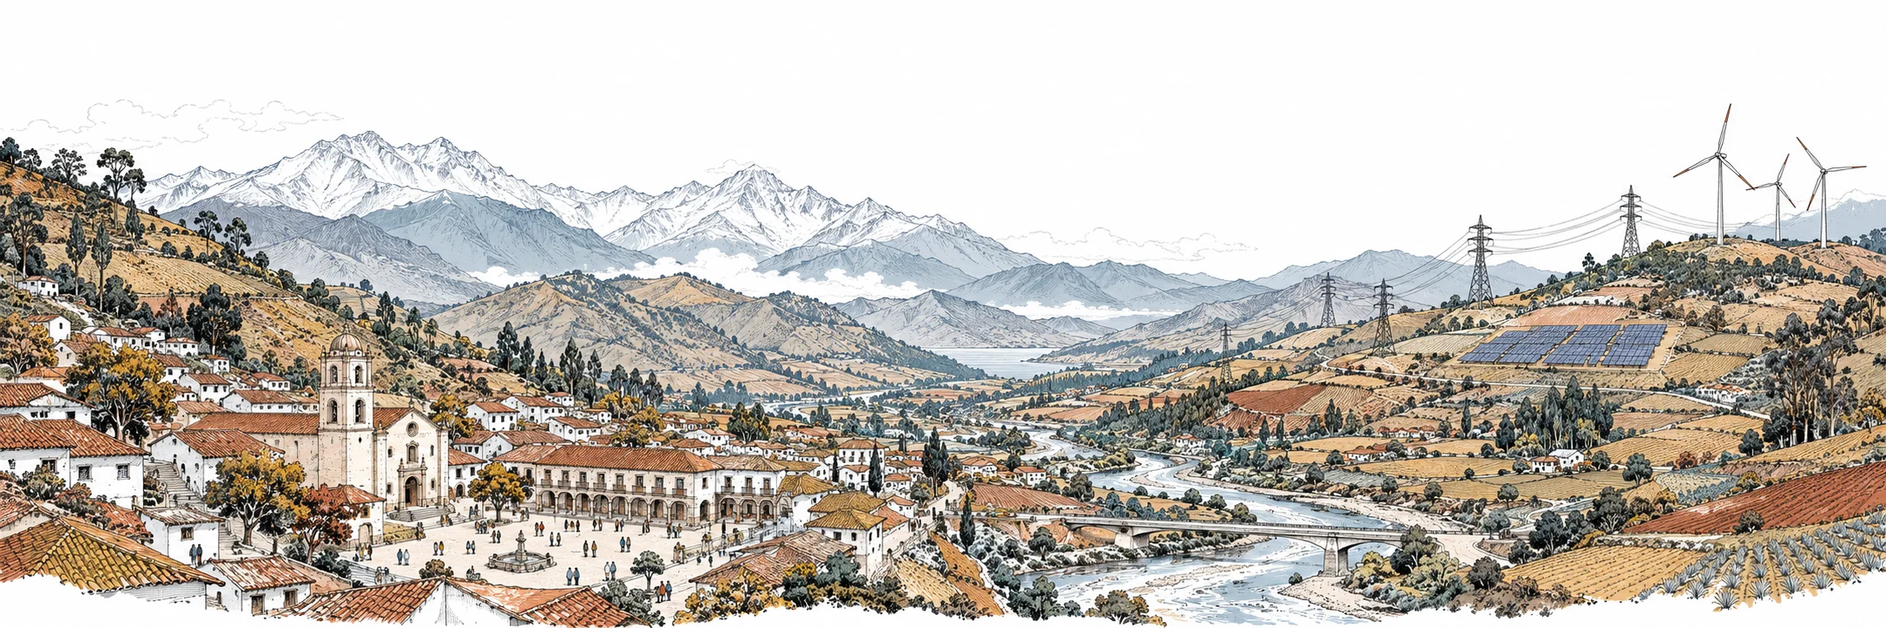
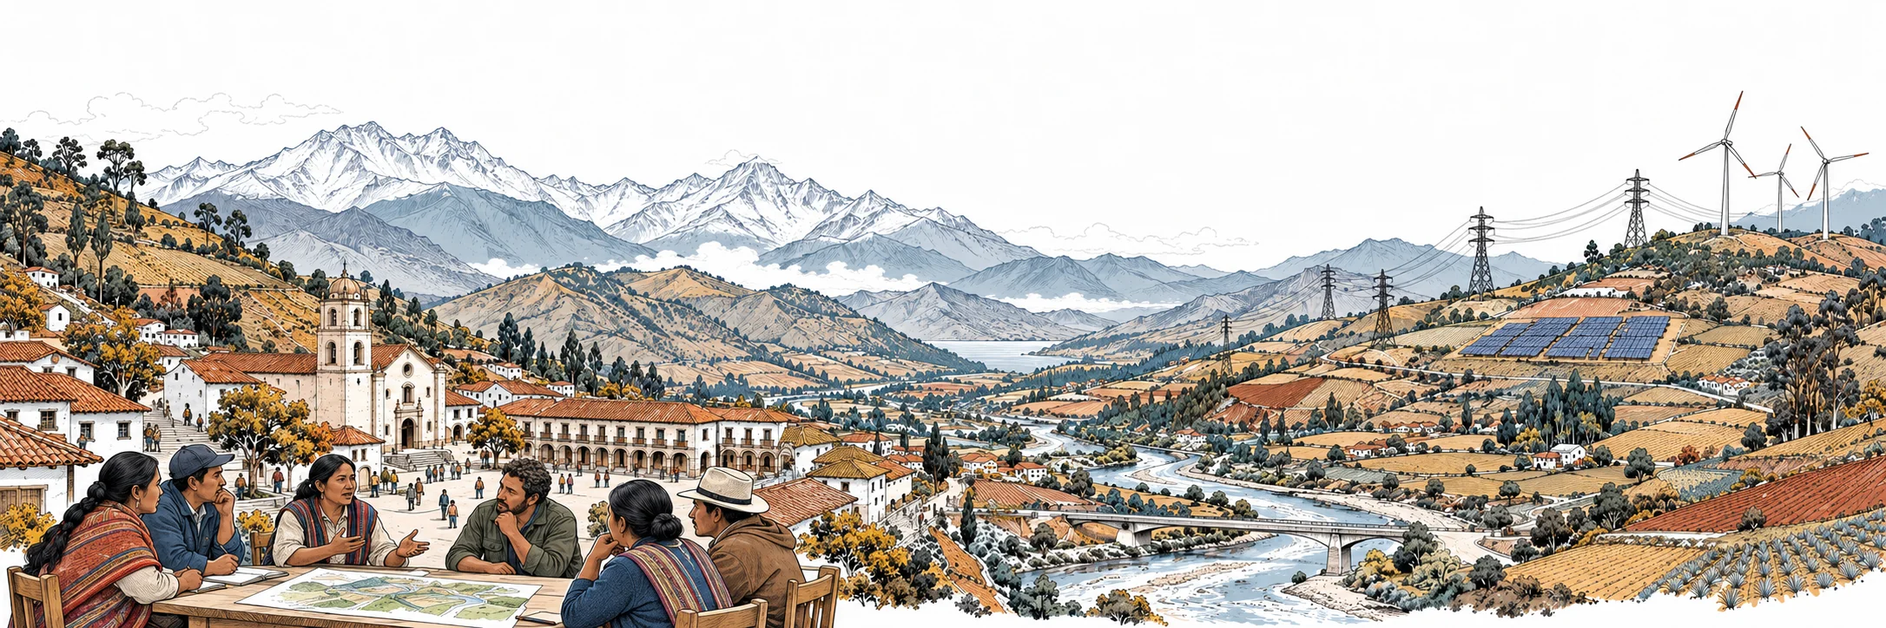
Merge biography into Home and add life and fieldwork pages

diff --git a/index.html b/index.html
@@ -11,9 +11,9 @@
 <body>
   <a class="skip" href="#main">Skip to content</a>
   <header class="header">
-    <figure class="research-banner"><img src="assets/community-energy-banner.webp" width="2048" height="683" alt="Illustrated Andean landscape connecting a town and community square with a river, farmland, solar panels, and wind turbines." fetchpriority="high"><figcaption>Communities, political economy &amp; environmental change <span>· Conceptual illustration</span></figcaption></figure>
+    <figure class="research-banner"><img src="assets/community-energy-banner.webp" width="2048" height="683" alt="Illustrated Andean landscape with Indigenous community leaders discussing a land plan, a town, river, farmland, solar panels, and wind turbines." fetchpriority="high"></figure>
     <a class="wordmark" href="index.html" aria-label="Laura Elizabeth Moreno-Gama, home">Laura Elizabeth Moreno-Gama<span>PhD Candidate in Political Science · University of California, Santa Barbara</span></a>
-    <nav aria-label="Main navigation"><a href="index.html" aria-current="page">Home</a><a href="about.html">About</a><a href="research.html">Research</a><a href="cv.html">CV</a><a href="contact.html">Contact <span aria-hidden="true"><svg class="arrow" viewBox="0 0 16 16" fill="none" stroke="currentColor" stroke-width="1.3" aria-hidden="true"><path d="M3 13 13 3M3 3h10v10"/></svg></span></a></nav>
+    <nav aria-label="Main navigation"><a href="index.html" aria-current="page">Home</a><a href="research.html">Research</a><a href="cv.html">CV</a><a href="fieldwork.html">Fieldwork</a><a href="life.html">Life outside academia</a><a href="contact.html">Contact</a></nav>
   </header>
   <main id="main" class="home-layout">
     <aside class="profile-sidebar" aria-label="Profile and contact information">
@@ -21,17 +21,18 @@
       <p class="sidebar-name">Laura Elizabeth<br>Moreno-Gama</p>
       <p class="sidebar-affiliation">Political Science<br>UC Santa Barbara</p>
       <a class="sidebar-email" href="mailto:lmorenogama@ucsb.edu">lmorenogama@ucsb.edu</a>
-      <p class="home-roots"><span class="colombia-mark" aria-hidden="true"></span><span lang="es">Orgullosamente colombiana.</span></p>
     </aside>
     <section class="welcome" aria-labelledby="welcome-title">
       <p class="eyebrow">Politics · Community · Environment</p>
-      <h1 id="welcome-title">Welcome. <span lang="es">Bienvenidos.</span></h1>
+      <h1 id="welcome-title">Welcome/<span lang="es">Bienvenidxs</span></h1>
       <p class="welcome-lead">I am Laura Elizabeth Moreno-Gama, a PhD Candidate in Political Science at the University of California, Santa Barbara.</p>
-      <p>I study the political economy of conflict, development, and environmental politics, with a focus on Latin America. My research examines energy transitions, environmental governance, and the communities at the heart of these changes.</p>
-      <p>Originally from Bogotá, Colombia, I bring a deep connection to the region to my work. I draw on experimental and quasi-experimental methods to explore these questions.</p>
-      <div class="home-links" aria-label="Explore the website"><a href="about.html">More about me <span aria-hidden="true">/</span></a><a href="research.html">Research <span aria-hidden="true">/</span></a><a href="cv.html">CV <span aria-hidden="true">/</span></a><a href="contact.html">Contact</a></div>
+      <p>I study the political economy of conflict, development, and environmental politics, with a focus on Latin America. My research examines energy transitions, environmental governance, and communities.</p>
+      <p>My work draws on experimental and quasi-experimental methods. My fields are comparative politics, environmental politics, and quantitative methods.</p>
+      <p>I hold an MSc in Economics (2017–2019) and a BSc in Economics (2013–2017) from Universidad del Rosario in Bogotá, Colombia. I also spent an exchange semester at Universidad Complutense de Madrid in 2016–2017.</p>
+      <p>Before UCSB, I worked in research at Universidad del Rosario, New York University Abu Dhabi, and United Arab Emirates University, and as a Nuclear R&amp;D Specialist at Nawah Energy Company.</p>
+      <div class="tags" aria-label="Research interests"><span>Comparative politics</span><span>Environmental politics</span><span>Quantitative methods</span></div>
     </section>
   </main>
-  <footer><span>Laura Elizabeth Moreno-Gama</span><span class="roots-footer"><span class="colombia-mark" aria-hidden="true"></span> Orgullosamente colombiana</span><span>Political Science · UC Santa Barbara</span></footer>
+  <footer><span>Laura Elizabeth Moreno-Gama</span><span>Political Science · UC Santa Barbara</span></footer>
 </body>
 </html>

diff --git a/about.html b/about.html
@@ -1,28 +1,2 @@
 <!DOCTYPE html>
-<html lang="en">
-<head>
-  <meta charset="utf-8">
-  <meta name="viewport" content="width=device-width, initial-scale=1">
-  <meta name="description" content="Laura Elizabeth Moreno-Gama, PhD Candidate in Political Science at the University of California, Santa Barbara. Comparative politics, political economy, and environmental politics.">
-  <meta name="theme-color" content="#ffffff">
-  <title>About · Laura Elizabeth Moreno-Gama · Political Science</title>
-  <link rel="stylesheet" href="assets/style.css">
-</head>
-<body>
-  <a class="skip" href="#main">Skip to content</a>
-  <header class="header">
-    <figure class="research-banner"><img src="assets/community-energy-banner.webp" width="2048" height="683" alt="Illustrated Andean landscape connecting a town and community square with a river, farmland, solar panels, and wind turbines." fetchpriority="high"><figcaption>Communities, political economy &amp; environmental change <span>· Conceptual illustration</span></figcaption></figure>
-    <a class="wordmark" href="index.html" aria-label="Laura Elizabeth Moreno-Gama, home">Laura Elizabeth Moreno-Gama<span>PhD Candidate in Political Science · University of California, Santa Barbara</span></a>
-    <nav aria-label="Main navigation"><a href="index.html">Home</a><a href="about.html" aria-current="page">About</a><a href="research.html">Research</a><a href="cv.html">CV</a><a href="contact.html">Contact <span aria-hidden="true"><svg class="arrow" viewBox="0 0 16 16" fill="none" stroke="currentColor" stroke-width="1.3" aria-hidden="true"><path d="M3 13 13 3M3 3h10v10"/></svg></span></a></nav>
-  </header>
-  <main id="main">
-    <section class="section about" aria-labelledby="about-title">
-      <div class="section-label"><span>01 / About</span><h1 id="about-title">Politics, environment,<br>and community.</h1></div>
-      <div class="section-body"><p class="lead">I am Laura Elizabeth Moreno-Gama, a PhD Candidate in Political Science at the University of California, Santa Barbara. I study the political economy of conflict, development, and environmental politics, with a focus on Latin America.</p><p>My work draws on experimental and quasi-experimental methods to examine questions about energy transitions, environmental governance, and communities. My fields are comparative politics, environmental politics, and quantitative methods.</p><p>I hold an MSc in Economics (2017–2019) and a BSc in Economics (2013–2017) from Universidad del Rosario in Bogotá, Colombia. I also spent an exchange semester at Universidad Complutense de Madrid in 2016–2017.</p><p>Before UCSB, I worked in research at Universidad del Rosario, New York University Abu Dhabi, and United Arab Emirates University, and as a Nuclear R&amp;D Specialist at Nawah Energy Company.</p><div class="tags" aria-label="Research interests"><span>Comparative politics</span><span>Environmental politics</span><span>Quantitative methods</span></div></div>
-    </section>
-    <section class="profile-details" aria-labelledby="affiliations-title"><h2 id="affiliations-title">Research &amp; academic community</h2><ul><li>PhD Fellow, The 2035 Initiative</li><li>Graduate Student Associate, Broom Center for Demography</li><li>Graduate Research Assistant working with William Nomikos and Matto Mildenberger</li><li>Catalyst Fellow, Berkeley Initiative for Transparency in the Social Sciences (BITSS)</li><li>Organizer of the ReproducibiliTea Workshop Series at UCSB</li></ul><h2>Teaching</h2><p>At Universidad del Rosario, I served as a teaching assistant in Economic Measurement (2019), Econometrics I (2018), and Probability and Statistics (2016–2018).</p></section>
-    <aside class="roots-note"><span class="colombia-mark" aria-hidden="true"></span><div><p class="eyebrow" lang="es">Orgullosamente colombiana</p><h2>From Bogotá, with pride.</h2><p>I am proudly Colombian, with roots in Bogotá and an academic foundation at Universidad del Rosario. Colombia remains central to many of the questions that guide my research.</p></div></aside>
-  </main>
-  <footer><span>Laura Elizabeth Moreno-Gama</span><span class="roots-footer"><span class="colombia-mark" aria-hidden="true"></span> Orgullosamente colombiana</span><span>Political Science · UC Santa Barbara</span></footer>
-</body>
-</html>
+<html lang="en"><head><meta charset="utf-8"><meta name="viewport" content="width=device-width, initial-scale=1"><meta http-equiv="refresh" content="0; url=index.html"><link rel="canonical" href="index.html"><title>About · Laura Elizabeth Moreno-Gama</title></head><body><p>The About page is now part of <a href="index.html">Laura Elizabeth Moreno-Gama’s home page</a>.</p></body></html>

diff --git a/research.html b/research.html
@@ -11,9 +11,9 @@
 <body>
   <a class="skip" href="#main">Skip to content</a>
   <header class="header">
-    <figure class="research-banner"><img src="assets/community-energy-banner.webp" width="2048" height="683" alt="Illustrated Andean landscape connecting a town and community square with a river, farmland, solar panels, and wind turbines." fetchpriority="high"><figcaption>Communities, political economy &amp; environmental change <span>· Conceptual illustration</span></figcaption></figure>
+    <figure class="research-banner"><img src="assets/community-energy-banner.webp" width="2048" height="683" alt="Illustrated Andean landscape with Indigenous community leaders discussing a land plan, a town, river, farmland, solar panels, and wind turbines." fetchpriority="high"></figure>
     <a class="wordmark" href="index.html" aria-label="Laura Elizabeth Moreno-Gama, home">Laura Elizabeth Moreno-Gama<span>PhD Candidate in Political Science · University of California, Santa Barbara</span></a>
-    <nav aria-label="Main navigation"><a href="index.html">Home</a><a href="about.html">About</a><a href="research.html" aria-current="page">Research</a><a href="cv.html">CV</a><a href="contact.html">Contact <span aria-hidden="true"><svg class="arrow" viewBox="0 0 16 16" fill="none" stroke="currentColor" stroke-width="1.3" aria-hidden="true"><path d="M3 13 13 3M3 3h10v10"/></svg></span></a></nav>
+    <nav aria-label="Main navigation"><a href="index.html">Home</a><a href="research.html" aria-current="page">Research</a><a href="cv.html">CV</a><a href="fieldwork.html">Fieldwork</a><a href="life.html">Life outside academia</a><a href="contact.html">Contact</a></nav>
   </header>
   <main id="main">
     <section class="section research" aria-labelledby="research-title"><p class="eyebrow">02 / Research</p><h1 id="research-title">Conflict, development,<br>and environmental politics.</h1><p class="research-intro">My research focuses on the political economy of environmental change in Latin America, using experimental and quasi-experimental methods.</p><h2>Research in progress</h2><div class="project-list"><article class="project"><p class="eyebrow">Research in progress</p><h3>Green Taxes for Trust: The Limits of Earmarking in Post-Conflict Colombia.</h3></article>
@@ -22,6 +22,6 @@
 <article class="project"><p class="eyebrow">Research in progress</p><h3>Political Support for Fossil Fuel Phaseout Policies in Oil-Producing Communities: Evidence from Colombia</h3><p>With Cesar Martinez (UCSB).</p></article>
 <article class="project"><p class="eyebrow">Research in progress</p><h3>Rebels and the Commons: Armed Group Governance and Common-Pool Resource Management in Colombia</h3><p>With Zachariah Parcels (Purdue University).</p></article></div><h2>Peer-reviewed publication</h2><article class="project"><h3>Do the size of the tourism sector and level of digitalization affect COVID-19 economic policy response? Evidence from developed and developing countries</h3><p>With Usman Khalid (United Arab Emirates University) and Luke Okafor (University of Nottingham).</p></article></section>
   </main>
-  <footer><span>Laura Elizabeth Moreno-Gama</span><span class="roots-footer"><span class="colombia-mark" aria-hidden="true"></span> Orgullosamente colombiana</span><span>Political Science · UC Santa Barbara</span></footer>
+  <footer><span>Laura Elizabeth Moreno-Gama</span><span>Political Science · UC Santa Barbara</span></footer>
 </body>
 </html>

diff --git a/cv.html b/cv.html
@@ -11,13 +11,13 @@
 <body>
   <a class="skip" href="#main">Skip to content</a>
   <header class="header">
-    <figure class="research-banner"><img src="assets/community-energy-banner.webp" width="2048" height="683" alt="Illustrated Andean landscape connecting a town and community square with a river, farmland, solar panels, and wind turbines." fetchpriority="high"><figcaption>Communities, political economy &amp; environmental change <span>· Conceptual illustration</span></figcaption></figure>
+    <figure class="research-banner"><img src="assets/community-energy-banner.webp" width="2048" height="683" alt="Illustrated Andean landscape with Indigenous community leaders discussing a land plan, a town, river, farmland, solar panels, and wind turbines." fetchpriority="high"></figure>
     <a class="wordmark" href="index.html" aria-label="Laura Elizabeth Moreno-Gama, home">Laura Elizabeth Moreno-Gama<span>PhD Candidate in Political Science · University of California, Santa Barbara</span></a>
-    <nav aria-label="Main navigation"><a href="index.html">Home</a><a href="about.html">About</a><a href="research.html">Research</a><a href="cv.html" aria-current="page">CV</a><a href="contact.html">Contact <span aria-hidden="true"><svg class="arrow" viewBox="0 0 16 16" fill="none" stroke="currentColor" stroke-width="1.3" aria-hidden="true"><path d="M3 13 13 3M3 3h10v10"/></svg></span></a></nav>
+    <nav aria-label="Main navigation"><a href="index.html">Home</a><a href="research.html">Research</a><a href="cv.html" aria-current="page">CV</a><a href="fieldwork.html">Fieldwork</a><a href="life.html">Life outside academia</a><a href="contact.html">Contact</a></nav>
   </header>
   <main id="main">
     <section class="section cv" aria-labelledby="cv-title"><div><p class="eyebrow">03 / Curriculum vitae</p><h1 id="cv-title">The academic path.</h1><p>Education, research, teaching, and academic experience.</p></div><a class="cv-placeholder" href="assets/cv.pdf" download="Laura_Elizabeth_Moreno_Gama_CV.pdf"><span aria-hidden="true">↓</span><span>Download my CV<small>PDF · Full curriculum vitae</small></span></a></section><section class="profile-details" aria-labelledby="education-title"><h2 id="education-title">Education</h2><dl class="education-list"><div><dt>2024–present</dt><dd>PhD program in Political Science<br>University of California, Santa Barbara</dd></div><div><dt>2017–2019</dt><dd>MSc in Economics · Graduated with honors<br>Universidad del Rosario, Bogotá</dd></div><div><dt>2013–2017</dt><dd>BSc in Economics · Top 5%<br>Universidad del Rosario, Bogotá</dd></div></dl></section>
   </main>
-  <footer><span>Laura Elizabeth Moreno-Gama</span><span class="roots-footer"><span class="colombia-mark" aria-hidden="true"></span> Orgullosamente colombiana</span><span>Political Science · UC Santa Barbara</span></footer>
+  <footer><span>Laura Elizabeth Moreno-Gama</span><span>Political Science · UC Santa Barbara</span></footer>
 </body>
 </html>

diff --git a/contact.html b/contact.html
@@ -11,13 +11,13 @@
 <body>
   <a class="skip" href="#main">Skip to content</a>
   <header class="header">
-    <figure class="research-banner"><img src="assets/community-energy-banner.webp" width="2048" height="683" alt="Illustrated Andean landscape connecting a town and community square with a river, farmland, solar panels, and wind turbines." fetchpriority="high"><figcaption>Communities, political economy &amp; environmental change <span>· Conceptual illustration</span></figcaption></figure>
+    <figure class="research-banner"><img src="assets/community-energy-banner.webp" width="2048" height="683" alt="Illustrated Andean landscape with Indigenous community leaders discussing a land plan, a town, river, farmland, solar panels, and wind turbines." fetchpriority="high"></figure>
     <a class="wordmark" href="index.html" aria-label="Laura Elizabeth Moreno-Gama, home">Laura Elizabeth Moreno-Gama<span>PhD Candidate in Political Science · University of California, Santa Barbara</span></a>
-    <nav aria-label="Main navigation"><a href="index.html">Home</a><a href="about.html">About</a><a href="research.html">Research</a><a href="cv.html">CV</a><a href="contact.html" aria-current="page">Contact <span aria-hidden="true"><svg class="arrow" viewBox="0 0 16 16" fill="none" stroke="currentColor" stroke-width="1.3" aria-hidden="true"><path d="M3 13 13 3M3 3h10v10"/></svg></span></a></nav>
+    <nav aria-label="Main navigation"><a href="index.html">Home</a><a href="research.html">Research</a><a href="cv.html">CV</a><a href="fieldwork.html">Fieldwork</a><a href="life.html">Life outside academia</a><a href="contact.html" aria-current="page">Contact</a></nav>
   </header>
   <main id="main">
     <section class="section contact" id="contact" aria-labelledby="contact-title"><div><p class="eyebrow">04 / Contact</p><h1 id="contact-title">Let’s be in conversation.</h1><p>For research conversations and academic connections.</p></div><dl class="contact-list"><div><dt>Email</dt><dd><a href="mailto:lmorenogama@ucsb.edu">lmorenogama@ucsb.edu</a></dd></div><div><dt>Academic profiles</dt><dd>Links forthcoming</dd></div></dl></section>
   </main>
-  <footer><span>Laura Elizabeth Moreno-Gama</span><span class="roots-footer"><span class="colombia-mark" aria-hidden="true"></span> Orgullosamente colombiana</span><span>Political Science · UC Santa Barbara</span></footer>
+  <footer><span>Laura Elizabeth Moreno-Gama</span><span>Political Science · UC Santa Barbara</span></footer>
 </body>
 </html>

diff --git a/life.html b/life.html
@@ -1,0 +1,28 @@
+<!DOCTYPE html>
+<html lang="en">
+<head>
+  <meta charset="utf-8">
+  <meta name="viewport" content="width=device-width, initial-scale=1">
+  <meta name="description" content="Laura Elizabeth Moreno-Gama, PhD Candidate in Political Science at the University of California, Santa Barbara. Comparative politics, political economy, and environmental politics.">
+  <meta name="theme-color" content="#ffffff">
+  <title>Life outside academia · Laura Elizabeth Moreno-Gama · Political Science</title>
+  <link rel="stylesheet" href="assets/style.css">
+</head>
+<body>
+  <a class="skip" href="#main">Skip to content</a>
+  <header class="header">
+    <figure class="research-banner"><img src="assets/community-energy-banner.webp" width="2048" height="683" alt="Illustrated Andean landscape with Indigenous community leaders discussing a land plan, a town, river, farmland, solar panels, and wind turbines." fetchpriority="high"></figure>
+    <a class="wordmark" href="index.html" aria-label="Laura Elizabeth Moreno-Gama, home">Laura Elizabeth Moreno-Gama<span>PhD Candidate in Political Science · University of California, Santa Barbara</span></a>
+    <nav aria-label="Main navigation"><a href="index.html">Home</a><a href="research.html">Research</a><a href="cv.html">CV</a><a href="fieldwork.html">Fieldwork</a><a href="life.html" aria-current="page">Life outside academia</a><a href="contact.html">Contact</a></nav>
+  </header>
+  <main id="main">
+    <section class="section personal-page" aria-labelledby="life-title">
+      <p class="eyebrow">A little more about me</p><h1 id="life-title">My life outside academia</h1>
+      <div class="personal-intro"><h2>From Bogotá, with pride.</h2><p>I am proudly Colombian, with roots in Bogotá. Colombia is part of who I am—a connection I carry with me wherever I go.</p></div>
+      <div class="personal-detail"><h2>Across places and languages</h2><p>My path has taken me from Colombia to Spain, the United Arab Emirates, and now Santa Barbara. Spanish is my native language; I also speak English, have working proficiency in French, and basic conversational Arabic.</p></div>
+      <div class="content-placeholder"><h2>The things I enjoy</h2><p>Personal favorites, hobbies, and everyday joys coming soon.</p></div>
+    </section>
+  </main>
+  <footer><span>Laura Elizabeth Moreno-Gama</span><span>Political Science · UC Santa Barbara</span></footer>
+</body>
+</html>

diff --git a/assets/style.css b/assets/style.css
@@ -58,3 +58,12 @@ a.cv-placeholder:hover{border-color:var(--sage)}
 .welcome .home-links{margin-top:27px;gap:14px;font-size:12px}
 @media(max-width:900px){.home-layout{grid-template-columns:200px minmax(0,1fr);gap:27px}.profile-sidebar{padding-right:24px}.welcome h1{font-size:32px}.wordmark{font-size:28px}}
 @media(max-width:650px){.header{padding-top:18px;padding-bottom:18px}.research-banner{margin-bottom:15px}.research-banner figcaption{display:block;font-size:9px}.research-banner figcaption span{display:block;margin-top:3px}.wordmark{font-size:25px}.wordmark span{font-size:11px;max-width:290px}.header nav{gap:20px;margin-top:17px;font-size:12px}.home-layout{grid-template-columns:1fr;gap:26px;padding-top:25px;padding-bottom:35px}.profile-sidebar{border-right:0;border-bottom:1px solid var(--line);padding:0 0 22px;display:grid;grid-template-columns:108px minmax(0,1fr);column-gap:20px;align-content:start}.profile-sidebar .portrait-photo{grid-column:1;grid-row:1/5;width:108px;margin:0}.sidebar-name{grid-column:2;font-size:19px;margin:0 0 8px}.sidebar-affiliation{grid-column:2;margin:0 0 8px;font-size:11px}.sidebar-email{grid-column:2;font-size:10px}.profile-sidebar .home-roots{grid-column:2;margin:12px 0 0;font-size:9px;flex-wrap:wrap;gap:6px}.welcome h1{font-size:31px}.welcome p.welcome-lead{font-size:21px}.welcome p:not(.eyebrow){font-size:14px}.welcome .home-links{gap:10px}.welcome .home-links span{margin-left:10px}}
+
+/* A single biography, with personal stories and fieldwork on their own pages. */
+.personal-page,.fieldwork-page{max-width:780px;min-height:0}
+.personal-page h2,.fieldwork-page h2{font-size:27px;line-height:1.3}
+.personal-page p:not(.eyebrow),.fieldwork-page p:not(.eyebrow){font-size:15px;color:var(--muted);line-height:1.85}
+.personal-detail{margin-top:35px;padding-top:10px;border-top:1px solid var(--line)}
+.content-placeholder{margin-top:35px;padding:5px 0 15px;border-top:1px solid var(--line)}
+.page-intro{max-width:620px}
+@media(max-width:650px){.header nav{column-gap:20px;row-gap:14px}.welcome h1{font-size:29px}.personal-page h2,.fieldwork-page h2{font-size:25px}}

diff --git a/fieldwork.html b/fieldwork.html
@@ -1,0 +1,27 @@
+<!DOCTYPE html>
+<html lang="en">
+<head>
+  <meta charset="utf-8">
+  <meta name="viewport" content="width=device-width, initial-scale=1">
+  <meta name="description" content="Laura Elizabeth Moreno-Gama, PhD Candidate in Political Science at the University of California, Santa Barbara. Comparative politics, political economy, and environmental politics.">
+  <meta name="theme-color" content="#ffffff">
+  <title>Fieldwork · Laura Elizabeth Moreno-Gama · Political Science</title>
+  <link rel="stylesheet" href="assets/style.css">
+</head>
+<body>
+  <a class="skip" href="#main">Skip to content</a>
+  <header class="header">
+    <figure class="research-banner"><img src="assets/community-energy-banner.webp" width="2048" height="683" alt="Illustrated Andean landscape with Indigenous community leaders discussing a land plan, a town, river, farmland, solar panels, and wind turbines." fetchpriority="high"></figure>
+    <a class="wordmark" href="index.html" aria-label="Laura Elizabeth Moreno-Gama, home">Laura Elizabeth Moreno-Gama<span>PhD Candidate in Political Science · University of California, Santa Barbara</span></a>
+    <nav aria-label="Main navigation"><a href="index.html">Home</a><a href="research.html">Research</a><a href="cv.html">CV</a><a href="fieldwork.html" aria-current="page">Fieldwork</a><a href="life.html">Life outside academia</a><a href="contact.html">Contact</a></nav>
+  </header>
+  <main id="main">
+    <section class="section fieldwork-page" aria-labelledby="fieldwork-title">
+      <p class="eyebrow">Research beyond the desk</p><h1 id="fieldwork-title">Fieldwork experiences</h1>
+      <p class="page-intro">A space for stories, photographs, and reflections from my fieldwork.</p>
+      <div class="content-placeholder"><h2>Stories from the field</h2><p>Fieldwork locations, experiences, and photographs will be added here.</p></div>
+    </section>
+  </main>
+  <footer><span>Laura Elizabeth Moreno-Gama</span><span>Political Science · UC Santa Barbara</span></footer>
+</body>
+</html>

diff --git a/README.md b/README.md
@@ -14,15 +14,15 @@ Open the local server in your browser when running on your own computer. Stop wi
 
 ## Edit the content
 
-- `index.html` is the quiet landing page. `about.html`, `research.html`, `cv.html`, and `contact.html` contain the individual sections. Research titles and collaborators follow the supplied CV. Review the introductory biography before publishing.
+- `index.html` combines Home and the academic biography. `research.html`, `cv.html`, `fieldwork.html`, `life.html`, and `contact.html` contain individual sections. `about.html` redirects older bookmarks to Home. Research titles and collaborators follow the supplied CV. Review the introductory biography before publishing.
 - `assets/style.css` controls colors, spacing, typography, and mobile layouts.
-- Banner: `assets/community-energy-banner.webp` is an AI-generated conceptual illustration of communities, landscapes, and energy transitions inspired by the Colombian Andes. It is not a photograph, actual map, or depiction of a specific field site. The full image is displayed without cropping, with a visible conceptual-illustration caption. The layout follows the supplied reference’s wide banner, stacked identity/navigation, and portrait sidebar while retaining the site’s typography and white background.
+- Banner: `assets/community-energy-banner.webp` is an AI-generated conceptual illustration of communities, landscapes, and energy transitions inspired by the Colombian Andes. It is not a photograph, actual map, or depiction of a specific field site. The revised illustration includes a conceptual gathering of Indigenous community leaders. It does not represent named individuals, a specific Indigenous nation, or a documented field event. The full image displays without cropping; visible captions are intentionally omitted. The layout follows the supplied reference’s wide banner, stacked identity/navigation, and portrait sidebar while retaining the site’s typography and white background.
 - Portrait: `assets/Laura.jpg` is displayed on the home page without cropping or changing the original photo. Replace that file to update the portrait.
 - CV: `assets/cv.pdf` is the supplied original, linked from `cv.html`. Replace the PDF when updating the CV.
 - Content and email are drawn from the supplied CV. Academic profile URLs remain unprovided; add only confirmed links. Research titles and collaborators follow the CV; abstracts and publication metadata have not been inferred.
 
 
-Always use Laura Elizabeth Moreno-Gama in visible name references. The site uses white backgrounds. The Colombian flag accents and Spanish welcome celebrate her Colombian roots without attributing unprovided personal history.
+Always use Laura Elizabeth Moreno-Gama in visible name references. The site uses white backgrounds. Colombian pride is expressed only on the Life outside academia page; flags and repeated pride labels have been removed. Personal hobbies and fieldwork stories remain placeholders until supplied by Laura Elizabeth. Language skills and places on the personal page come from her CV.
 
 ## Publication
 
